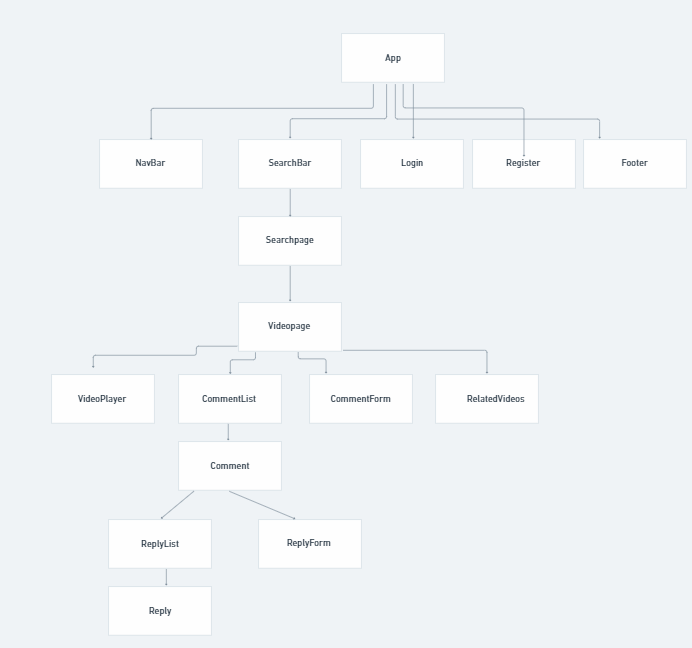
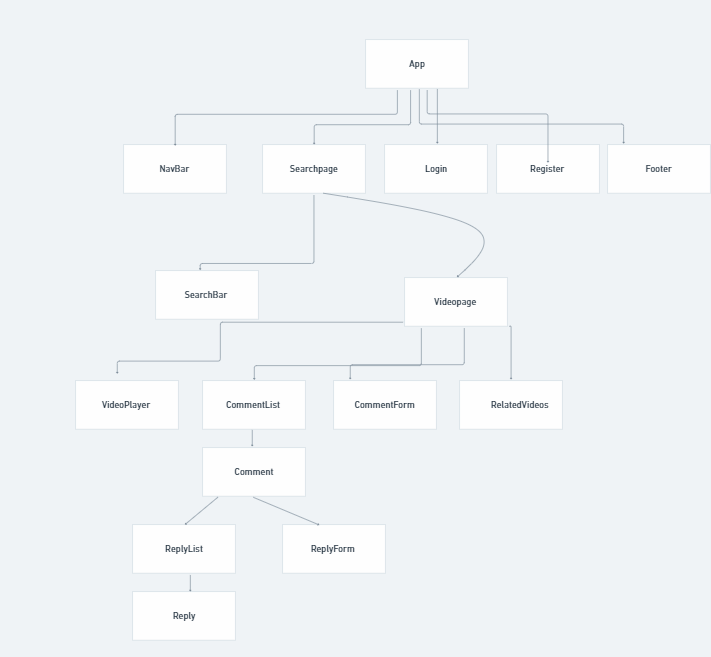
Created functionality to grab the title and url from the thumbnail for each video

diff --git a/frontend/src/pages/SearchPage/SearchPage.jsx b/frontend/src/pages/SearchPage/SearchPage.jsx
@@ -1,21 +1,24 @@
 import React, { useState, useEffect } from 'react';
-import SearchBar from '../SearchBar/SearchBar'
+import SearchBar from '../../components/SearchBar/SearchBar'
 import axios from 'axios';
+import VideoThumbnail from '../../components/VideoThumbnail/VideoThumbnail';
 
 const SearchPage = ({}) => {
     const [videos, setVideos] = useState([])
     const [searchTerms, setSearchTerms] = useState('dog')
 
     async function getVideoResults() {
-        let url = `https://youtube.googleapis.com/youtube/v3/search?maxResults=30&q=${searchTerms}&key=AIzaSyCycwRp8jsBioiuo047cSluFXpZKK4qGPU`;
+        let url = `https://youtube.googleapis.com/youtube/v3/search?maxResults=10&type=video&part=snippet&q=${searchTerms}&key=AIzaSyCycwRp8jsBioiuo047cSluFXpZKK4qGPU`;
         let response = await axios.get(url);
-        setVideos(response.data.results)
+        console.log(response.data.items)
+        setVideos(response.data.items)
     }
 
 
     return ( 
         <div>
             <SearchBar videos={videos} getVideoResults={getVideoResults} setSearchTerms={setSearchTerms} searchTerms={searchTerms} />
+            <VideoThumbnail videos={videos}/>
         </div>
      );
 }

diff --git a/frontend/src/App.jsx b/frontend/src/App.jsx
@@ -6,6 +6,8 @@ import "./App.css";
 // import HomePage from "./pages/HomePage/HomePage";
 import LoginPage from "./pages/LoginPage/LoginPage";
 import RegisterPage from "./pages/RegisterPage/RegisterPage";
+import SearchPage from "./pages/SearchPage/SearchPage";
+// import VideoPage from "./pages/VideoPage";
 
 // Component Imports
 import Navbar from "./components/NavBar/NavBar";
@@ -13,7 +15,6 @@ import Footer from "./components/Footer/Footer";
 
 // Util Imports
 // import PrivateRoute from "./utils/PrivateRoute";
-import Page from "./pages/Page/Page";
 
 function App() {
   return (
@@ -28,7 +29,7 @@ function App() {
             </PrivateRoute>
           }
         /> */}
-        <Route path='/' element={<Page/>}/>
+        <Route path='/' element={<SearchPage/>}/>
         <Route path="/register" element={<RegisterPage />} />
         <Route path="/login" element={<LoginPage />} />
       </Routes>

diff --git a/frontend/src/components/SearchBar/SearchBar.jsx b/frontend/src/components/SearchBar/SearchBar.jsx
@@ -5,21 +5,16 @@ import React, { useState, useEffect } from 'react';
 const SearchBar = ({videos, getVideoResults, setSearchTerms, searchTerms}) => {
     
 
-    function handleSearch(){
+    function handleSearch(event){
         event.preventDefault();
-        let newVideoResults = {
-            title,
-            video_id,
-        }
-        setSearchTerms()
-        getVideoResults()
+        getVideoResults();
     }
 
     return ( 
-        <div >
-            <input type='search' onCh />
-            <button type='submit' onClick={pass}>Search</button>
-        </div>
+        <form onSubmit={handleSearch}>
+            <input type='search' onChange={(event) => setSearchTerms(event.target.value)} value={searchTerms} />
+            <button type='submit'>Search</button>
+        </form>
      );
 }
  

diff --git a/frontend/src/components/VideoThumbnail/VideoThumbnail.jsx b/frontend/src/components/VideoThumbnail/VideoThumbnail.jsx
@@ -1,0 +1,27 @@
+import React from 'react';
+import { Link } from 'react-router-dom';
+
+
+const VideoThumbnail = ({ videos }) => {
+
+    let videoThumnails = videos.map((video)=>{
+        return(
+            video.snippet.title,
+            video.snippet.thumbnails.default.url
+        )
+    })
+
+
+    let {title, url} = videoThumnails
+
+    if (videos){
+        return ( 
+            <div>
+                <Link to={video.id.videoId}/>
+                {videoThumnails}
+            </div>
+         );
+    }
+}
+ 
+export default VideoThumbnail;

diff --git a/frontend/src/pages/VideoPage/VideoPage.jsx b/frontend/src/pages/VideoPage/VideoPage.jsx
@@ -1,0 +1,17 @@
+import CommentList from '../../components/CommenList/CommentList';
+import CommentForm from '../../components/CommentForm/CommentForm';
+import RelatedVideos from '../../components/RelatedVideos/RelatedVideos';
+import VideoPlayer from '../../components/VideoPlayer/VideoPlayer'
+
+const VideoPage = ({}) => {
+    return ( 
+        <div>
+            <VideoPlayer/>
+            <CommentList/>
+            <CommentForm/>
+            <RelatedVideos/>
+        </div>
+     );
+}
+ 
+export default VideoPage;
